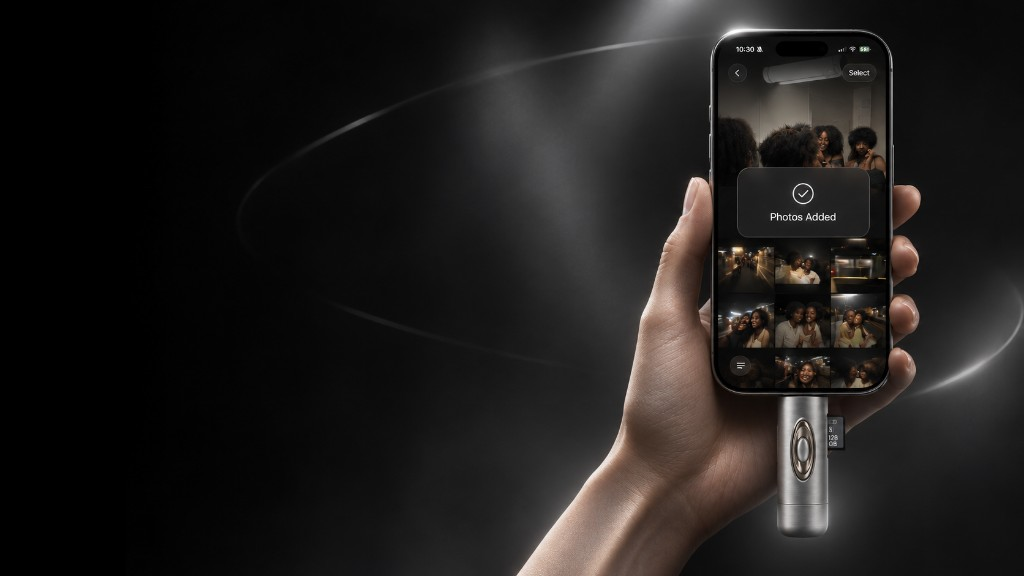
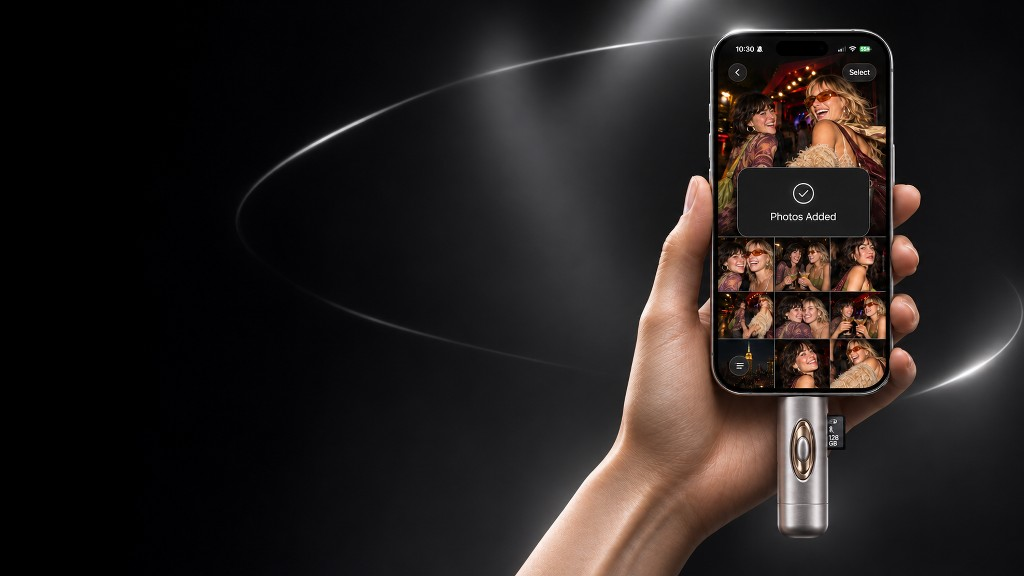
Swap the hero and step photos, and restore scroll-to-open.
The USB section changes from closed to open as you scroll, the email popup stays inside its card, and the extra lines under the hero and bag heading are gone.

diff --git a/app/page.tsx b/app/page.tsx
@@ -18,27 +18,24 @@ const galleryItems = [
   { src: "/orbit/bag-mint.jpg", alt: "Orbit attached to a mint green handbag", title: "On the bag", subtitle: "Mint hardware, silver charm" },
   { src: "/orbit/bag-suede.jpg", alt: "Orbit clipped to a beige suede bag next to a camera", title: "Packed for the night", subtitle: "Camera, cards, charm" },
   { src: "/orbit/bag-night.png", alt: "Orbit hanging from a burgundy bag at night", title: "Out with you", subtitle: "It stays on the strap" },
-  { src: "/orbit/import-diner.png", alt: "A phone importing photos from Orbit at a diner table", title: "Import", subtitle: "Choose the frames worth keeping" },
+  { src: "/orbit/step-import.jpg", alt: "A phone importing photos from Orbit at a diner table", title: "Import", subtitle: "Choose the frames worth keeping" },
 ];
 
 const connectors = [
   {
+    name: "Closed",
     src: "/orbit/usb-closed.png",
     alt: "Orbit closed, a brushed-silver bag charm",
-    width: 1024,
-    height: 341,
   },
   {
+    name: "Caps off",
     src: "/orbit/usb-caps.png",
     alt: "Orbit with both protective caps unscrewed",
-    width: 1024,
-    height: 341,
   },
   {
+    name: "USB & USB-C",
     src: "/orbit/usb-open.png",
     alt: "Orbit opened to show a USB-C plug, a USB-A plug, an SD card, and a microSD card",
-    width: 1024,
-    height: 512,
   },
 ] as const;
 
@@ -47,41 +44,72 @@ const steps = [
     n: "1",
     title: "Insert the card",
     body: "Slide your camera’s SD or microSD card into Orbit.",
-    src: "/orbit/usb-open.png",
-    alt: "Orbit opened to show USB-C, USB-A, an SD card, and a microSD card",
+    src: "/orbit/step-insert.jpg",
+    alt: "Hands sliding an SD card into Orbit",
     width: 1024,
-    height: 512,
+    height: 682,
   },
   {
     n: "2",
     title: "Plug in the charm",
     body: "Connect Orbit directly to your phone or laptop.",
-    src: "/orbit/laptop.jpg",
-    alt: "Orbit plugged into a laptop beside a compact camera",
-    width: 1024,
-    height: 682,
+    src: "/orbit/step-plug.jpg",
+    alt: "Orbit plugged into a phone with photos added",
+    width: 414,
+    height: 576,
   },
   {
     n: "3",
     title: "Upload and share",
     body: "Choose your photos and add them to a shared album.",
-    src: "/orbit/import-diner.png",
+    src: "/orbit/step-import.jpg",
     alt: "A phone importing photos from Orbit at a diner table",
-    width: 655,
-    height: 655,
+    width: 768,
+    height: 1024,
   },
 ] as const;
 
 function CompatibleSection() {
+  const [stage, setStage] = useState(0);
+
+  useEffect(() => {
+    const section = document.getElementById("inside");
+    if (!section) return;
+    const onScroll = () => {
+      const rect = section.getBoundingClientRect();
+      const total = section.offsetHeight - window.innerHeight;
+      const passed = Math.min(Math.max(-rect.top, 0), Math.max(total, 1));
+      const progress = total > 0 ? passed / total : 0;
+      setStage(progress < 0.34 ? 0 : progress < 0.67 ? 1 : 2);
+    };
+    onScroll();
+    window.addEventListener("scroll", onScroll, { passive: true });
+    return () => window.removeEventListener("scroll", onScroll);
+  }, []);
+
   return (
-    <section className="compatible" id="inside" aria-labelledby="inside-title">
-      <h2 id="inside-title">Compatible with both USB & USB-C</h2>
-      <div className="usb-row">
-        {connectors.map((item) => (
-          <figure key={item.src}>
-            <Image src={item.src} alt={item.alt} width={item.width} height={item.height} sizes="(max-width: 800px) 100vw, 900px" />
-          </figure>
-        ))}
+    <section className="inside" id="inside" aria-labelledby="inside-title">
+      <div className="inside-sticky">
+        <h2 id="inside-title">Compatible with both USB & USB-C</h2>
+        <ol className="stage-tabs">
+          {connectors.map((item, index) => (
+            <li key={item.name} className={index === stage ? "on" : undefined}>
+              {item.name}
+            </li>
+          ))}
+        </ol>
+        <div className="stage-frame">
+          {connectors.map((item, index) => (
+            <Image
+              key={item.src}
+              src={item.src}
+              alt={index === stage ? item.alt : ""}
+              fill
+              sizes="(max-width: 800px) 100vw, 900px"
+              className={index === stage ? "stage-photo show" : "stage-photo"}
+            />
+          ))}
+        </div>
       </div>
     </section>
   );
@@ -92,10 +120,6 @@ function CarrySection() {
     <section className="carry" aria-labelledby="carry-title">
       <div className="carry-copy">
         <h2 id="carry-title">Built to stay with you.</h2>
-        <p>
-          Orbit works as a practical reader and a sculptural bag charm. Its brushed-silver body fits naturally with the
-          hardware already on your bag.
-        </p>
       </div>
       <div className="bag-grid">
         <figure>
@@ -191,10 +215,6 @@ export default function HomePage() {
               Orbit by Glow Gadget
             </p>
             <h1>Share your photos before the night ends.</h1>
-            <p className="lede">
-              Orbit moves photos from your camera to your phone in seconds, so everyone gets the pictures while the
-              moment is still happening.
-            </p>
             <div className="hero-actions">
               <a className="btn solid" href="#early-access">
                 Get early access

diff --git a/app/globals.css b/app/globals.css
@@ -232,19 +232,46 @@ h1, h2, h3, .success-title {
   line-height: 1.02;
 }
 
-.compatible {
+.inside { height: 260vh; position: relative; }
+.inside-sticky {
+  position: sticky;
+  top: 72px;
+  height: calc(100svh - 72px);
+  display: flex;
+  flex-direction: column;
+  justify-content: center;
   width: min(980px, calc(100% - 40px));
   margin: 0 auto;
-  padding: 72px 0 24px;
 }
-.compatible h2 { text-align: center; margin-bottom: 36px; }
-.usb-row { display: grid; gap: 8px; }
-.usb-row figure { margin: 0; }
-.usb-row img {
-  width: 100%;
-  height: auto;
-  display: block;
+.inside-sticky h2 { margin: 0; text-align: center; }
+.stage-tabs {
+  display: flex;
+  justify-content: center;
+  gap: 22px;
+  margin: 18px 0 0;
+  padding: 0;
+  list-style: none;
+  color: var(--muted);
+  font-size: 13px;
 }
+.stage-tabs .on { color: var(--ink); }
+.stage-tabs .on::before {
+  content: "";
+  display: inline-block;
+  width: 6px;
+  height: 6px;
+  margin-right: 8px;
+  border-radius: 50%;
+  background: var(--accent);
+  box-shadow: 0 0 10px var(--accent);
+}
+.stage-frame {
+  position: relative;
+  height: min(48vh, 440px);
+  margin-top: 18px;
+}
+.stage-photo { object-fit: contain; opacity: 0; transition: opacity 0.55s ease; }
+.stage-photo.show { opacity: 1; }
 
 .how { width: min(1240px, calc(100% - 40px)); margin: 0 auto; padding: 40px 0 20px; }
 .step {
@@ -314,10 +341,12 @@ h1, h2, h3, .success-title {
   width: min(560px, 100%);
   margin: 0 auto;
   display: grid;
-  grid-template-columns: 1fr auto;
+  grid-template-columns: minmax(0, 1fr) auto;
   gap: 10px;
 }
 .release-form input {
+  width: 100%;
+  min-width: 0;
   height: 56px;
   border-radius: 999px;
   border: 1px solid rgba(200, 204, 212, 0.22);
@@ -386,10 +415,12 @@ h1, h2, h3, .success-title {
 .modal-scrim { position: absolute; inset: 0; border: 0; background: rgba(0, 0, 0, 0.62); }
 .modal-card {
   position: relative;
-  width: min(440px, 100%);
+  width: min(420px, calc(100vw - 32px));
+  max-height: calc(100svh - 32px);
+  overflow: auto;
   padding: 32px 28px 22px;
   border-radius: 24px;
-  background: rgba(16, 16, 20, 0.92);
+  background: rgba(16, 16, 20, 0.96);
   border: 1px solid rgba(200, 204, 212, 0.2);
   box-shadow: 0 30px 80px rgba(0, 0, 0, 0.45);
   text-align: center;
@@ -418,7 +449,8 @@ h1, h2, h3, .success-title {
   text-underline-offset: 4px;
   cursor: pointer;
 }
-.modal .release-form { width: 100%; }
+.modal .release-form { width: 100%; grid-template-columns: minmax(0, 1fr); }
+.modal .release-form button { width: 100%; }
 .modal .form-error { text-align: center; }
 
 .privacy {
@@ -440,7 +472,7 @@ h1, h2, h3, .success-title {
     position: relative !important;
     inset: auto !important;
     width: 100% !important;
-    height: 46svh !important;
+    height: 52svh !important;
     object-fit: cover;
     object-position: 70% center;
   }
@@ -454,7 +486,8 @@ h1, h2, h3, .success-title {
   .step.flip .step-copy { order: 0; }
   .step-copy { padding-top: 110px; }
   .step-num { font-size: 220px; left: -12px; top: -16px; }
-  .compatible { padding-top: 48px; }
+  .inside { height: 220vh; }
+  .stage-tabs { flex-wrap: wrap; gap: 12px 18px; }
   .bag-grid { gap: 8px; }
   .bag-grid figure { height: 16vh; min-height: 108px; border-radius: 12px; }
   .footer-inner { flex-direction: column; align-items: flex-start; }
